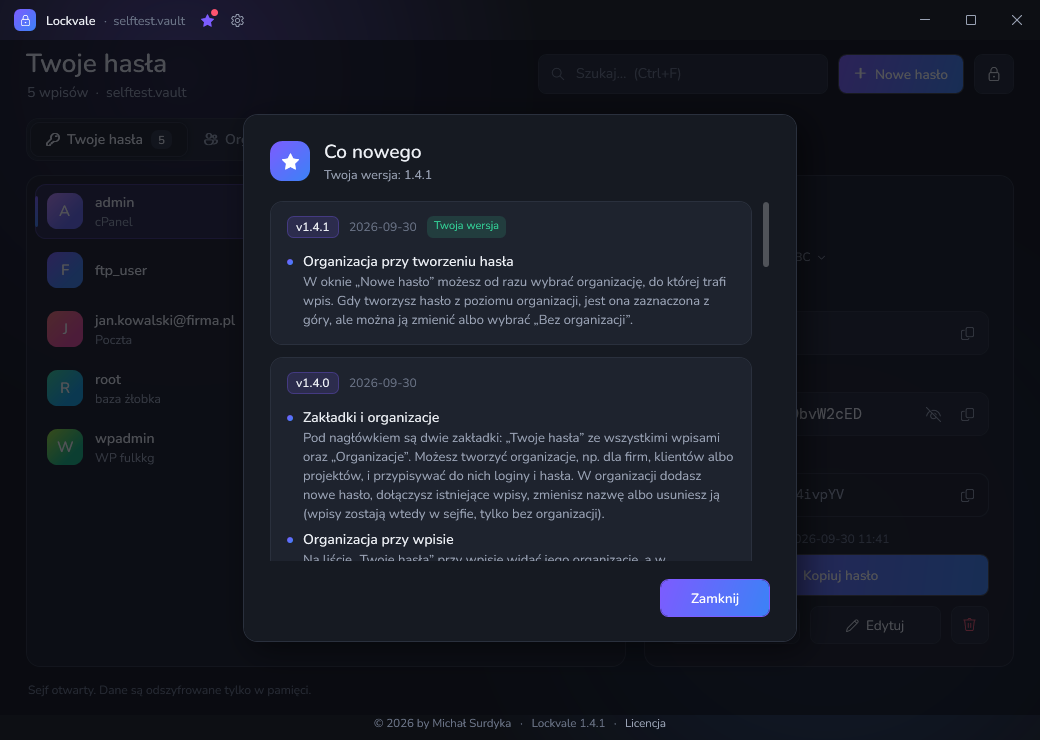
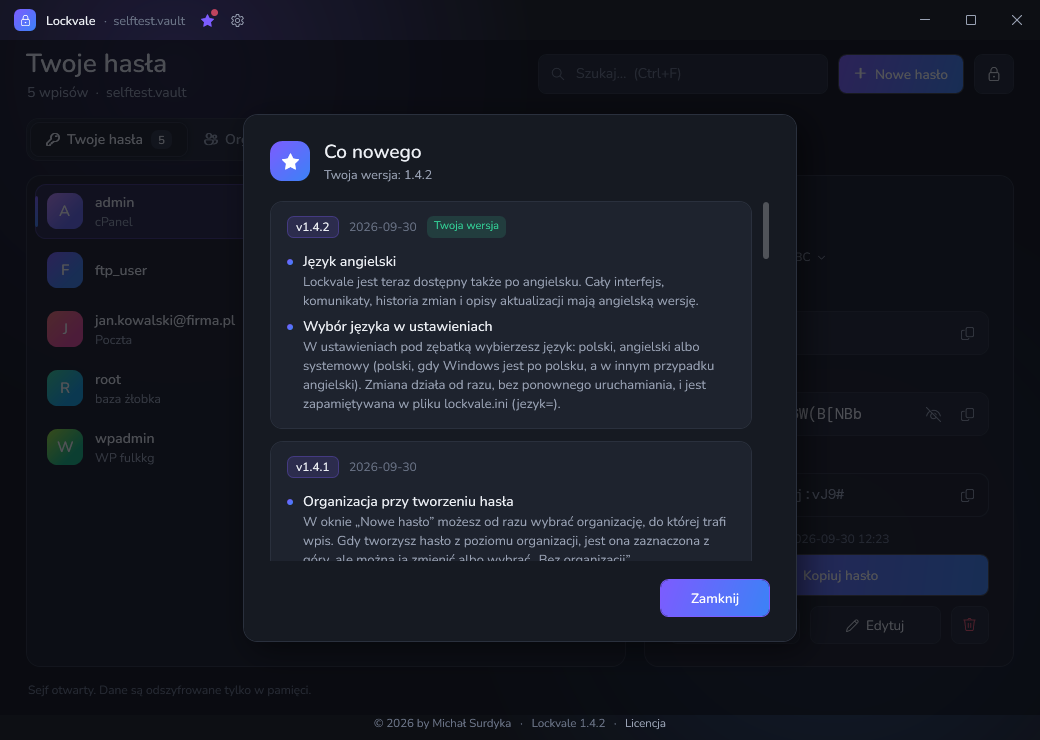
Lockvale 1.4.2: README i licencja

Changed region(s): [[0.2769, 0.3419, 0.7077, 0.777], [0.7692, 0.5284, 0.8, 0.5595]]

diff --git a/README.md b/README.md
@@ -1,10 +1,12 @@
 # Lockvale
 
-**Lockvale** to przenośny, szyfrowany sejf haseł dla Windows - jeden plik `Lockvale.exe`, bez instalacji.
+**[English below](#english)** · Polski
+
+**Lockvale** to przenośny, szyfrowany sejf haseł dla Windows — jeden plik `Lockvale.exe`, bez instalacji.
 Można go nosić na pendrivie razem z plikiem sejfu.
 
-> Wcześniej program nazywał się **pCrypt**. Wersja pCrypt 1.1.0 aktualizuje się do Lockvale automatycznie,
-> a pliki `pcrypt.vault` i `pcrypt.ini` są odczytywane bez zmian.
+> Wcześniej program nazywał się **pCrypt**. Pliki `pcrypt.vault` i `pcrypt.ini` są odczytywane bez zmian —
+> wystarczy położyć `Lockvale.exe` obok nich.
 
 ![Lockvale](screenshots/3-szczegoly.png)
 
@@ -22,16 +24,17 @@ Wymagania: Windows 10 lub 11 (.NET Framework 4.8 jest wbudowany w system).
 ## Najważniejsze funkcje
 
 - Szyfrowanie **AES-256** + **HMAC-SHA256**, klucz z hasła głównego przez **PBKDF2-SHA256** (600 000 iteracji).
-- Dane tylko lokalnie, w jednym pliku `.vault` - bez chmury i bez kont.
+- Dane tylko lokalnie, w jednym pliku `.vault` — bez chmury i bez kont.
 - Generator haseł, wyszukiwarka, historia poprzedniego hasła dla każdego wpisu.
 - Kopiowanie do schowka z automatycznym czyszczeniem po 30 s (bez historii schowka Windows).
 - Automatyczna blokada po 5 minutach bezczynności i przy zablokowaniu Windows.
-- Automatyczne aktualizacje z podpisem cyfrowym - Lockvale instaluje tylko pliki podpisane przez autora.
+- Automatyczne aktualizacje z podpisem cyfrowym — Lockvale instaluje tylko pliki podpisane przez autora.
+- Interfejs po polsku i po angielsku (wybór w ustawieniach pod zębatką).
 
 ## Pierwsze kroki
 
 1. Wrzuć `Lockvale.exe` do folderu, w którym ma leżeć sejf (np. na pendrive).
-2. Uruchom i ustaw **hasło główne** (min. 12 znaków). **Nie da się go odzyskać** - zapamiętaj je.
+2. Uruchom i ustaw **hasło główne** (min. 12 znaków). **Nie da się go odzyskać** — zapamiętaj je.
 3. Rób kopie zapasowe pliku `lockvale.vault` (poprzednia wersja po każdym zapisie trafia też do `lockvale.vault.bak`).
 
 Ustawienia są w pliku `lockvale.ini` obok programu. `aktualizacje=0` wyłącza sprawdzanie nowych wersji.
@@ -39,7 +42,7 @@ Ustawienia są w pliku `lockvale.ini` obok programu. `aktualizacje=0` wyłącza 
 ## Aktualizacje i ich weryfikacja
 
 Przy starcie Lockvale sprawdza najnowsze wydanie w tym repozytorium i pyta o instalację. Każde wydanie zawiera
-`Lockvale.update` - manifest z numerem wersji i skrótem SHA-256 pliku, podpisany kluczem ECDSA P-256 autora.
+`Lockvale.update` — manifest z numerem wersji i skrótem SHA-256 pliku, podpisany kluczem ECDSA P-256 autora.
 Aplikacja odrzuci plik z błędnym podpisem, innym skrótem albo starszą wersją.
 
 Skrót pobranego pliku sprawdzisz ręcznie w PowerShellu i porównasz z linią `sha256=` w `Lockvale.update`:
@@ -58,3 +61,59 @@ Program zawiera czcionki Nunito i DM Mono na licencji SIL Open Font License 1.1.
 ## Zgłoszenia
 
 Błędy i pomysły: [Issues](https://github.com/Crisples/lockvale-releases/issues).
+
+---
+
+## English
+
+**Lockvale** is a portable, encrypted password vault for Windows — a single `Lockvale.exe` file, no installation.
+You can carry it on a USB drive together with your vault file.
+
+![Lockvale](screenshots/16-vault-en.png)
+
+**[⬇ Download the latest Lockvale.exe](https://github.com/Crisples/lockvale-releases/releases/latest/download/Lockvale.exe)**
+· [all releases](https://github.com/Crisples/lockvale-releases/releases)
+
+Requirements: Windows 10 or 11 (.NET Framework 4.8 is built into the system).
+The app uses the Windows display language (Polish or English); you can change it in the settings (gear icon).
+
+> The first time you run a file downloaded with a browser, Windows SmartScreen may show an “Unknown publisher”
+> warning. Choose **More info → Run anyway**, or tick **Unblock** in the file's Properties.
+> Later versions install automatically, without this warning.
+
+### Features
+
+- **AES-256** + **HMAC-SHA256** encryption, key derived from the master password with **PBKDF2-SHA256** (600,000 iterations).
+- Your data stays local, in a single `.vault` file — no cloud, no accounts.
+- Password generator (14–48 characters), search, organizations, previous password kept for every entry.
+- Copy to clipboard with automatic clearing after 30 s (excluded from Windows clipboard history).
+- Automatic lock after 5 minutes of inactivity and when Windows is locked.
+- Digitally signed automatic updates — Lockvale installs only files signed by the author.
+
+### Getting started
+
+1. Put `Lockvale.exe` in the folder where the vault should live (e.g. on a USB drive).
+2. Run it and set a **master password** (at least 12 characters). **It cannot be recovered** — remember it.
+3. Back up `lockvale.vault` (after every save the previous version is also kept in `lockvale.vault.bak`).
+
+Settings are stored in `lockvale.ini` next to the program. `aktualizacje=0` turns off update checks,
+`jezyk=en` / `jezyk=pl` sets the language.
+
+### Updates and verification
+
+At startup Lockvale checks the latest release in this repository and asks before installing it. Every release includes
+`Lockvale.update` — a manifest with the version number and the SHA-256 hash of the file, signed with the author's
+ECDSA P-256 key. The app rejects files with an invalid signature, a different hash or an older version.
+
+You can check the hash of a downloaded file in PowerShell and compare it with the `sha256=` line in `Lockvale.update`:
+
+```powershell
+(Get-FileHash .\Lockvale.exe -Algorithm SHA256).Hash.ToLower()
+```
+
+### License
+
+Lockvale is free (freeware) for personal and commercial use. Details: [LICENSE.txt](LICENSE.txt) (Polish and English).
+Copyright © 2026 by Michał Surdyka. Includes the Nunito and DM Mono fonts under the SIL Open Font License 1.1.
+
+Bugs and ideas: [Issues](https://github.com/Crisples/lockvale-releases/issues).
